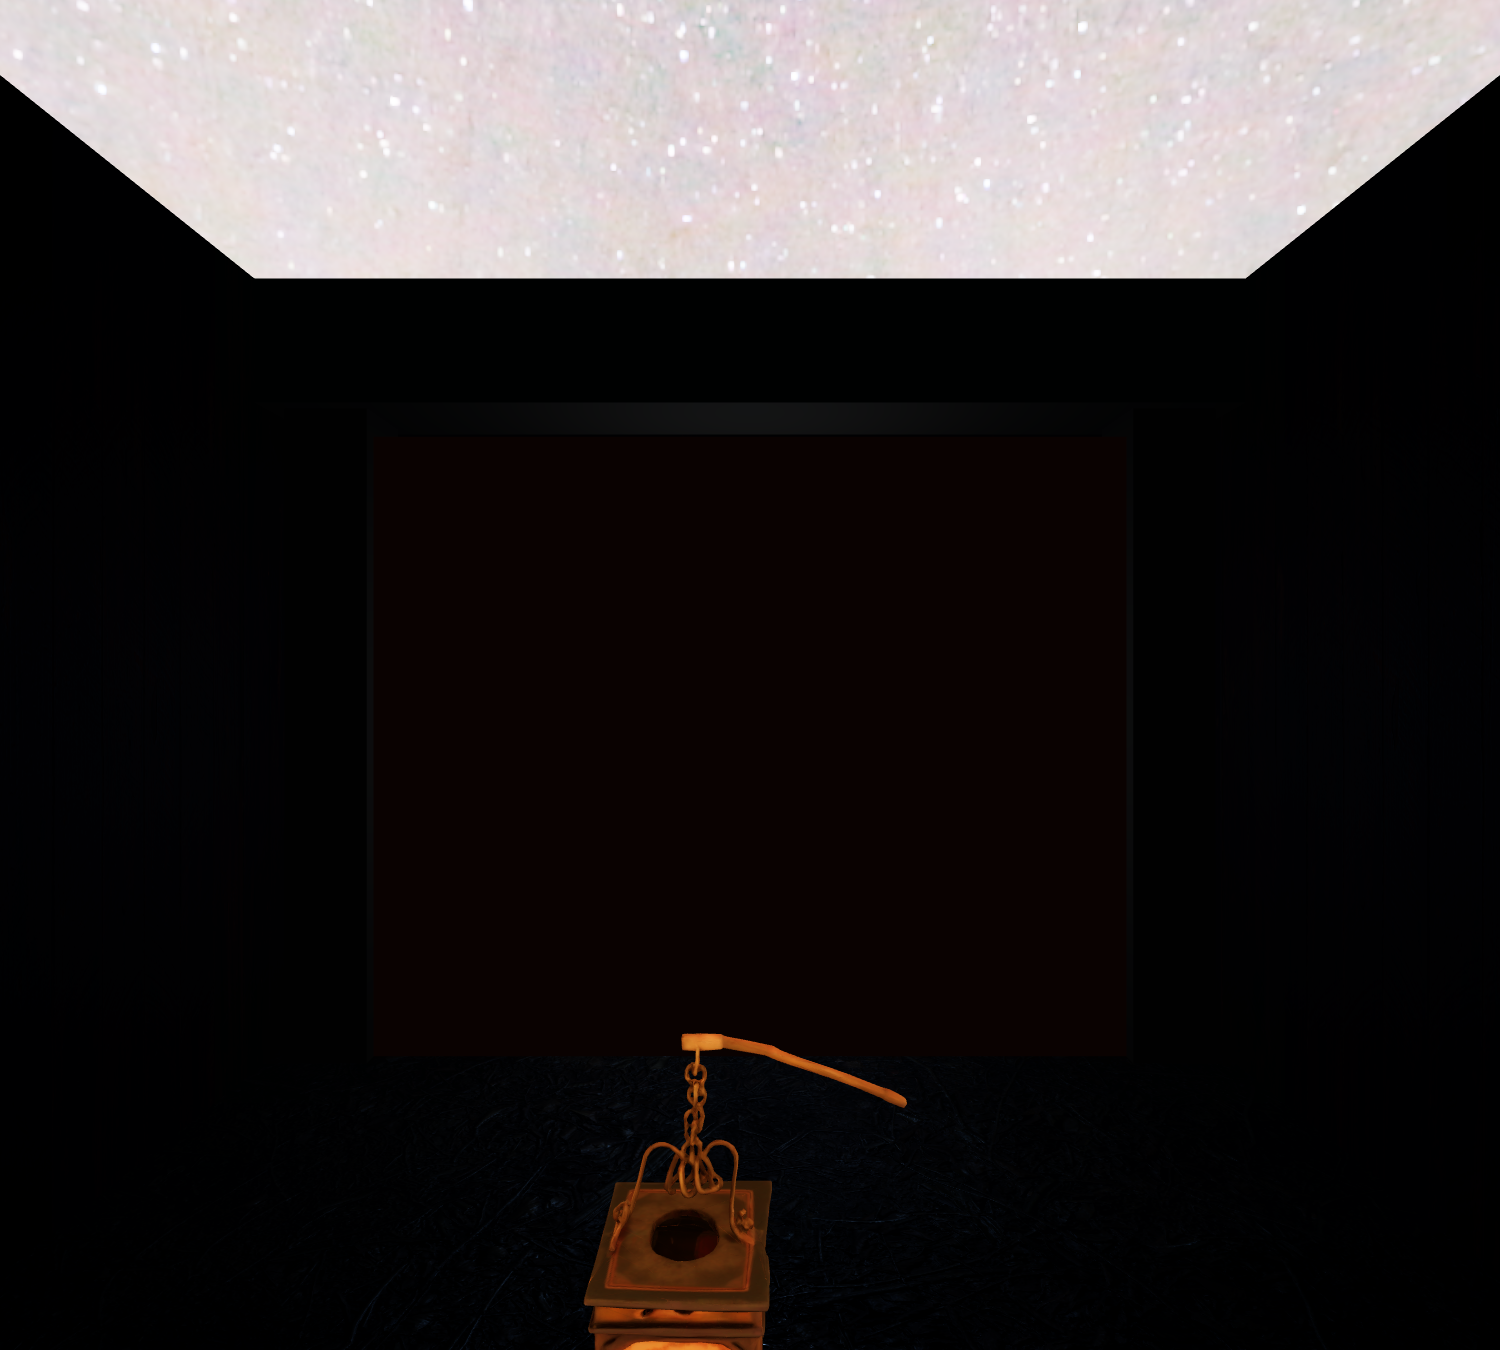
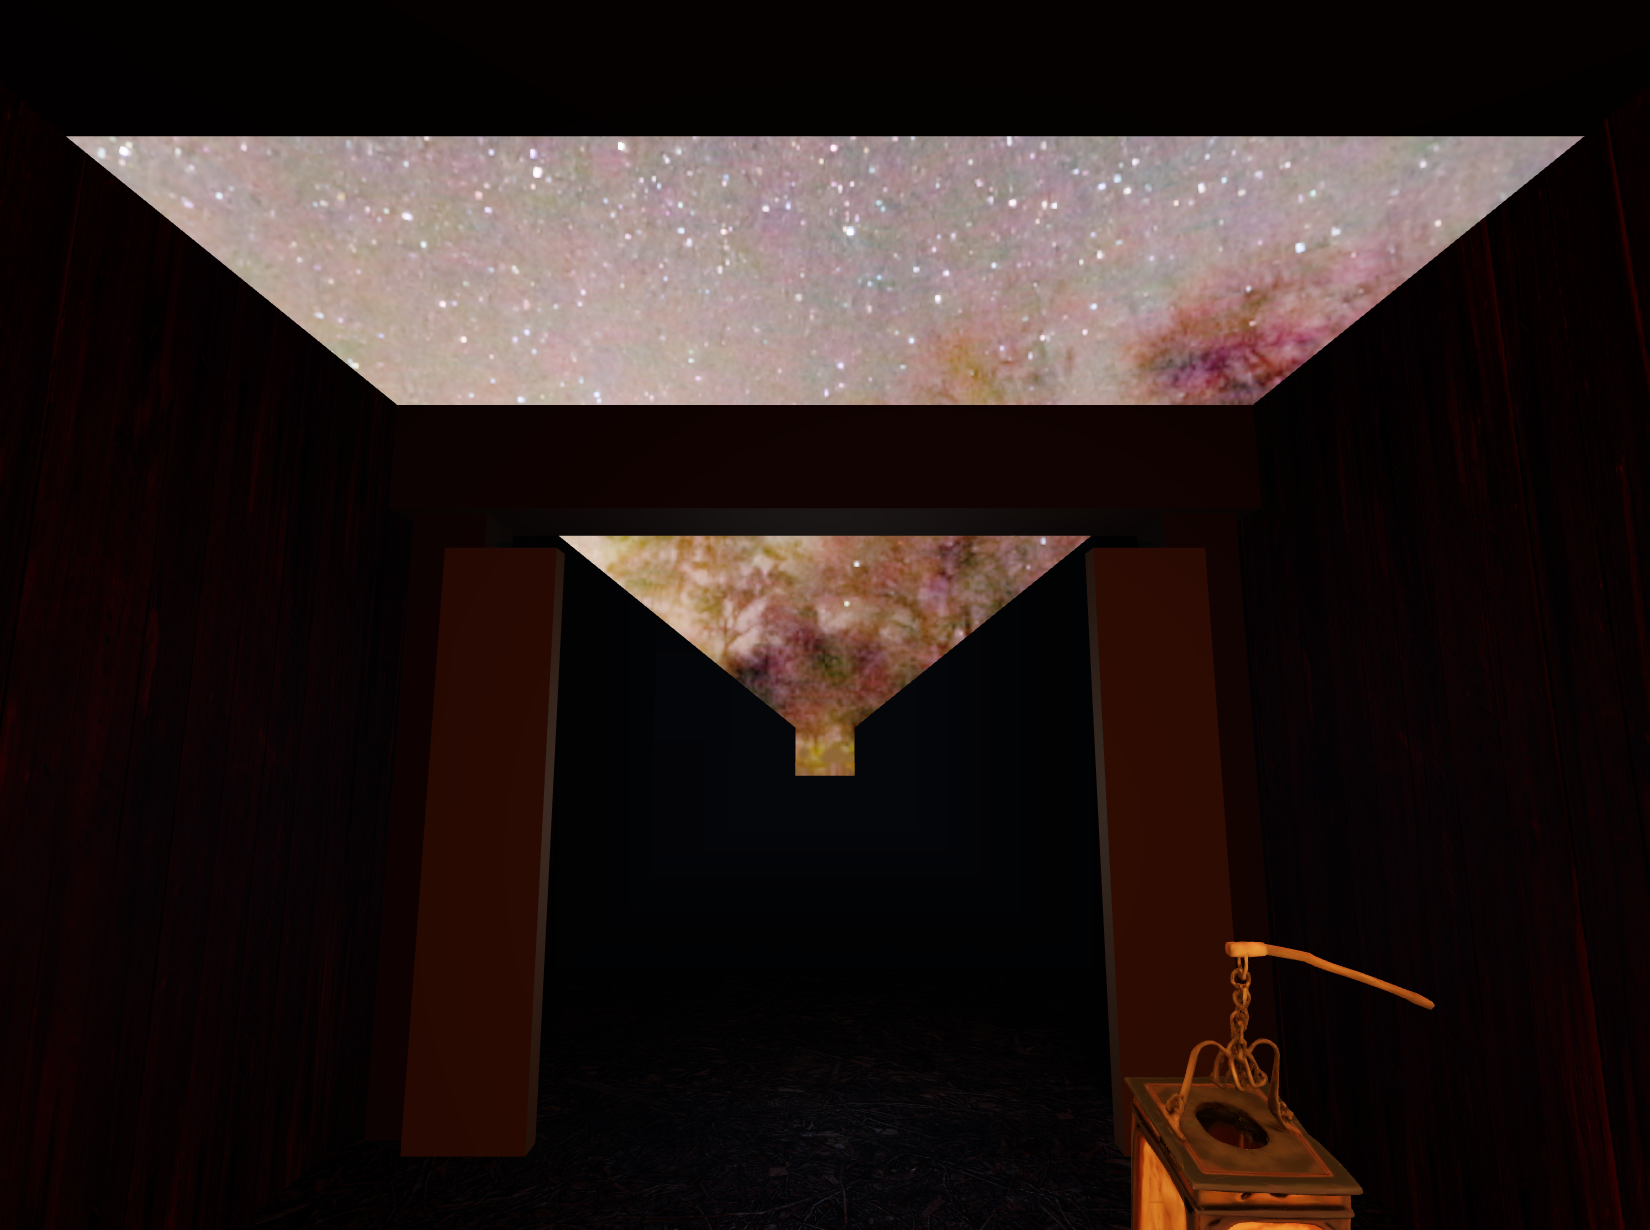
fix: 밤하늘을 천장 구멍 -> 대문 너머로, 밝기 12->3 (뿌염 완화)
- 천장 구멍 대신, 출구 대문 뒤로 미로 경계까지 천장·벽을 제거한 통로를
  내어 **문 너머로 밤하늘**이 보이게(skyCells). 통로는 그리드상 벽이라
  플레이어는 못 나가고 대문에서 탈출 판정.
- 대문 문짝을 열어(양쪽에 젖힌 판) 별밤이 보이게.
- backgroundIntensity 12->3: no_lamps HDR을 과하게 올려 회색으로 뜨던
  뿌염 완화(은하수 띠는 HDR 고유).
- REPORT 문구/캡쳐를 '문 너머 밤하늘'로 갱신.

diff --git a/src/maze.js b/src/maze.js
@@ -240,9 +240,32 @@ export class Maze {
     floor.receiveShadow = true;
     group.add(floor);
 
-    // Ceiling as per-cell tiles so we can leave a 3×3 OPENING over the exit —
-    // the player emerges from the dark corridor to see the night sky above the
-    // goal (sky background shows through the hole). Built as an InstancedMesh.
+    // Carve an opening from the exit OUT to the maze boundary — opposite the
+    // entrance corridor — so the night sky shows *through the gate*. Ceiling and
+    // wall geometry are removed along this short trench (floor stays), so the
+    // gate frames a moonlit path out to the open night.
+    const exitOpen = (() => {
+      for (const [dx, dz] of [[1, 0], [-1, 0], [0, 1], [0, -1]]) {
+        if (!this.isWallCell(this.exitCell.gx + dx, this.exitCell.gz + dz)) return [dx, dz];
+      }
+      return [0, 1];
+    })();
+    const outDir = [-exitOpen[0], -exitOpen[1]];
+    this.exitOutDir = outDir;
+    const skyCells = new Set();
+    const key = (x, z) => z * this.gw + x;
+    skyCells.add(key(this.exitCell.gx, this.exitCell.gz));
+    {
+      let x = this.exitCell.gx, z = this.exitCell.gz;
+      while (true) {
+        x += outDir[0]; z += outDir[1];
+        if (x < 0 || x >= this.gw || z < 0 || z >= this.gh) break; // reached boundary → sky beyond
+        skyCells.add(key(x, z));
+      }
+    }
+    this.skyCells = skyCells;
+
+    // Ceiling as per-cell tiles (InstancedMesh), skipping the sky trench.
     const ceilMat = new THREE.MeshStandardMaterial({
       color: 0x171210,
       roughness: 1.0,
@@ -250,12 +273,10 @@ export class Maze {
     });
     const ceilGeo = new THREE.PlaneGeometry(this.cellSize, this.cellSize);
     ceilGeo.rotateX(Math.PI / 2); // face downward
-    const SKY_OPEN = 1; // Chebyshev radius of the opening (1 = 3×3 cells)
     const ceilCells = [];
     for (let gz = 0; gz < this.gh; gz++) {
       for (let gx = 0; gx < this.gw; gx++) {
-        const cheb = Math.max(Math.abs(gx - this.exitCell.gx), Math.abs(gz - this.exitCell.gz));
-        if (cheb > SKY_OPEN) ceilCells.push({ gx, gz });
+        if (!skyCells.has(key(gx, gz))) ceilCells.push({ gx, gz });
       }
     }
     const ceil = new THREE.InstancedMesh(ceilGeo, ceilMat, ceilCells.length);
@@ -268,11 +289,13 @@ export class Maze {
     ceil.instanceMatrix.needsUpdate = true;
     group.add(ceil);
 
-    // Walls as a single InstancedMesh of boxes for performance.
+    // Walls as a single InstancedMesh of boxes for performance. The sky-trench
+    // cells are skipped (rendered open) while staying walls in the grid, so the
+    // player can't actually walk out — they win at the gate.
     const wallCells = [];
     for (let gz = 0; gz < this.gh; gz++) {
       for (let gx = 0; gx < this.gw; gx++) {
-        if (this.grid[gz][gx] === 1) wallCells.push({ gx, gz });
+        if (this.grid[gz][gx] === 1 && !skyCells.has(key(gx, gz))) wallCells.push({ gx, gz });
       }
     }
     const wallGeo = new THREE.BoxGeometry(this.cellSize, this.wallHeight, this.cellSize);

diff --git a/src/main.js b/src/main.js
@@ -44,7 +44,7 @@ new RGBELoader().load(`${import.meta.env.BASE_URL}sky/night.hdr`, (tex) => {
   // This "no lamps" night sky is very dark; lift it so the stars actually read
   // through the small ceiling opening. (Only the opening shows it, so this does
   // not brighten the corridors.)
-  scene.backgroundIntensity = 12;
+  scene.backgroundIntensity = 3;
 });
 
 const camera = new THREE.PerspectiveCamera(
@@ -321,10 +321,13 @@ scene.add(exitLight);
   const pR = new THREE.Mesh(postGeo, post); pR.position.set(W / 2 - 0.25, H / 2, 0);
   const lintel = new THREE.Mesh(new THREE.BoxGeometry(W, 0.5, 0.5), post);
   lintel.position.set(0, H - 0.25, 0);
-  const door = new THREE.Mesh(new THREE.BoxGeometry(W - 0.7, H - 0.6, 0.16), plank);
-  door.position.set(0, (H - 0.6) / 2, 0.02);
-  for (const m of [pL, pR, lintel, door]) { m.castShadow = true; m.receiveShadow = true; }
-  gate.add(pL, pR, lintel, door);
+  // A short lintel skirt up top + two narrow door leaves swung open against the
+  // posts, so the gateway is open: you see the night sky through it.
+  const leafGeo = new THREE.BoxGeometry(0.5, H - 0.7, 0.12);
+  const leafL = new THREE.Mesh(leafGeo, plank); leafL.position.set(-W / 2 + 0.55, (H - 0.7) / 2, 0.25);
+  const leafR = new THREE.Mesh(leafGeo, plank); leafR.position.set(W / 2 - 0.55, (H - 0.7) / 2, 0.25);
+  for (const m of [pL, pR, lintel, leafL, leafR]) { m.castShadow = true; m.receiveShadow = true; }
+  gate.add(pL, pR, lintel, leafL, leafR);
 
   gate.position.set(exitWorld.x, 0, exitWorld.z);
   // The default gate faces ±Z; if the cell's opening runs along X, turn it 90°.

diff --git a/REPORT.md b/REPORT.md
@@ -19,9 +19,9 @@
 
 ![미로 평면도](captures/maze_topdown.png)
 
-**목표 — 출구 나무 대문 & 밤하늘:** 미로의 가장 깊은 셀(시작점에서 BFS 최장거리)에 조선풍 나무 대문(기둥·인방·판자문, 절차 생성)을 세우고, **그 위 천장을 3×3 크기로 뚫어 밤하늘 HDRI(equirectangular, §6)를 배경으로 노출**했다. 어둠 속 미로를 빠져나오면 별이 가득한 밤하늘이 드러난다 — *조선 야행* 테마의 시각적 보상.
+**목표 — 출구 나무 대문 & 밤하늘:** 미로의 가장 깊은 셀(시작점에서 BFS 최장거리)에 조선풍 나무 대문(기둥·인방, 절차 생성)을 세우고, **그 대문 뒤로 미로 경계까지 통로(천장·벽 제거)를 트어 밤하늘 HDRI(equirectangular, §6)가 문 너머로 보이게** 했다. 어둠 속 미로를 빠져나오면 별이 가득한 밤하늘이 드러난다 — *조선 야행* 테마의 시각적 보상.
 
-| 출구 나무 대문 | 천장 너머 밤하늘 |
+| 출구 나무 대문 | 문 너머 밤하늘 |
 |---|---|
 | ![출구 대문](captures/exit_gate.png) | ![밤하늘](captures/exit_sky.png) |
 